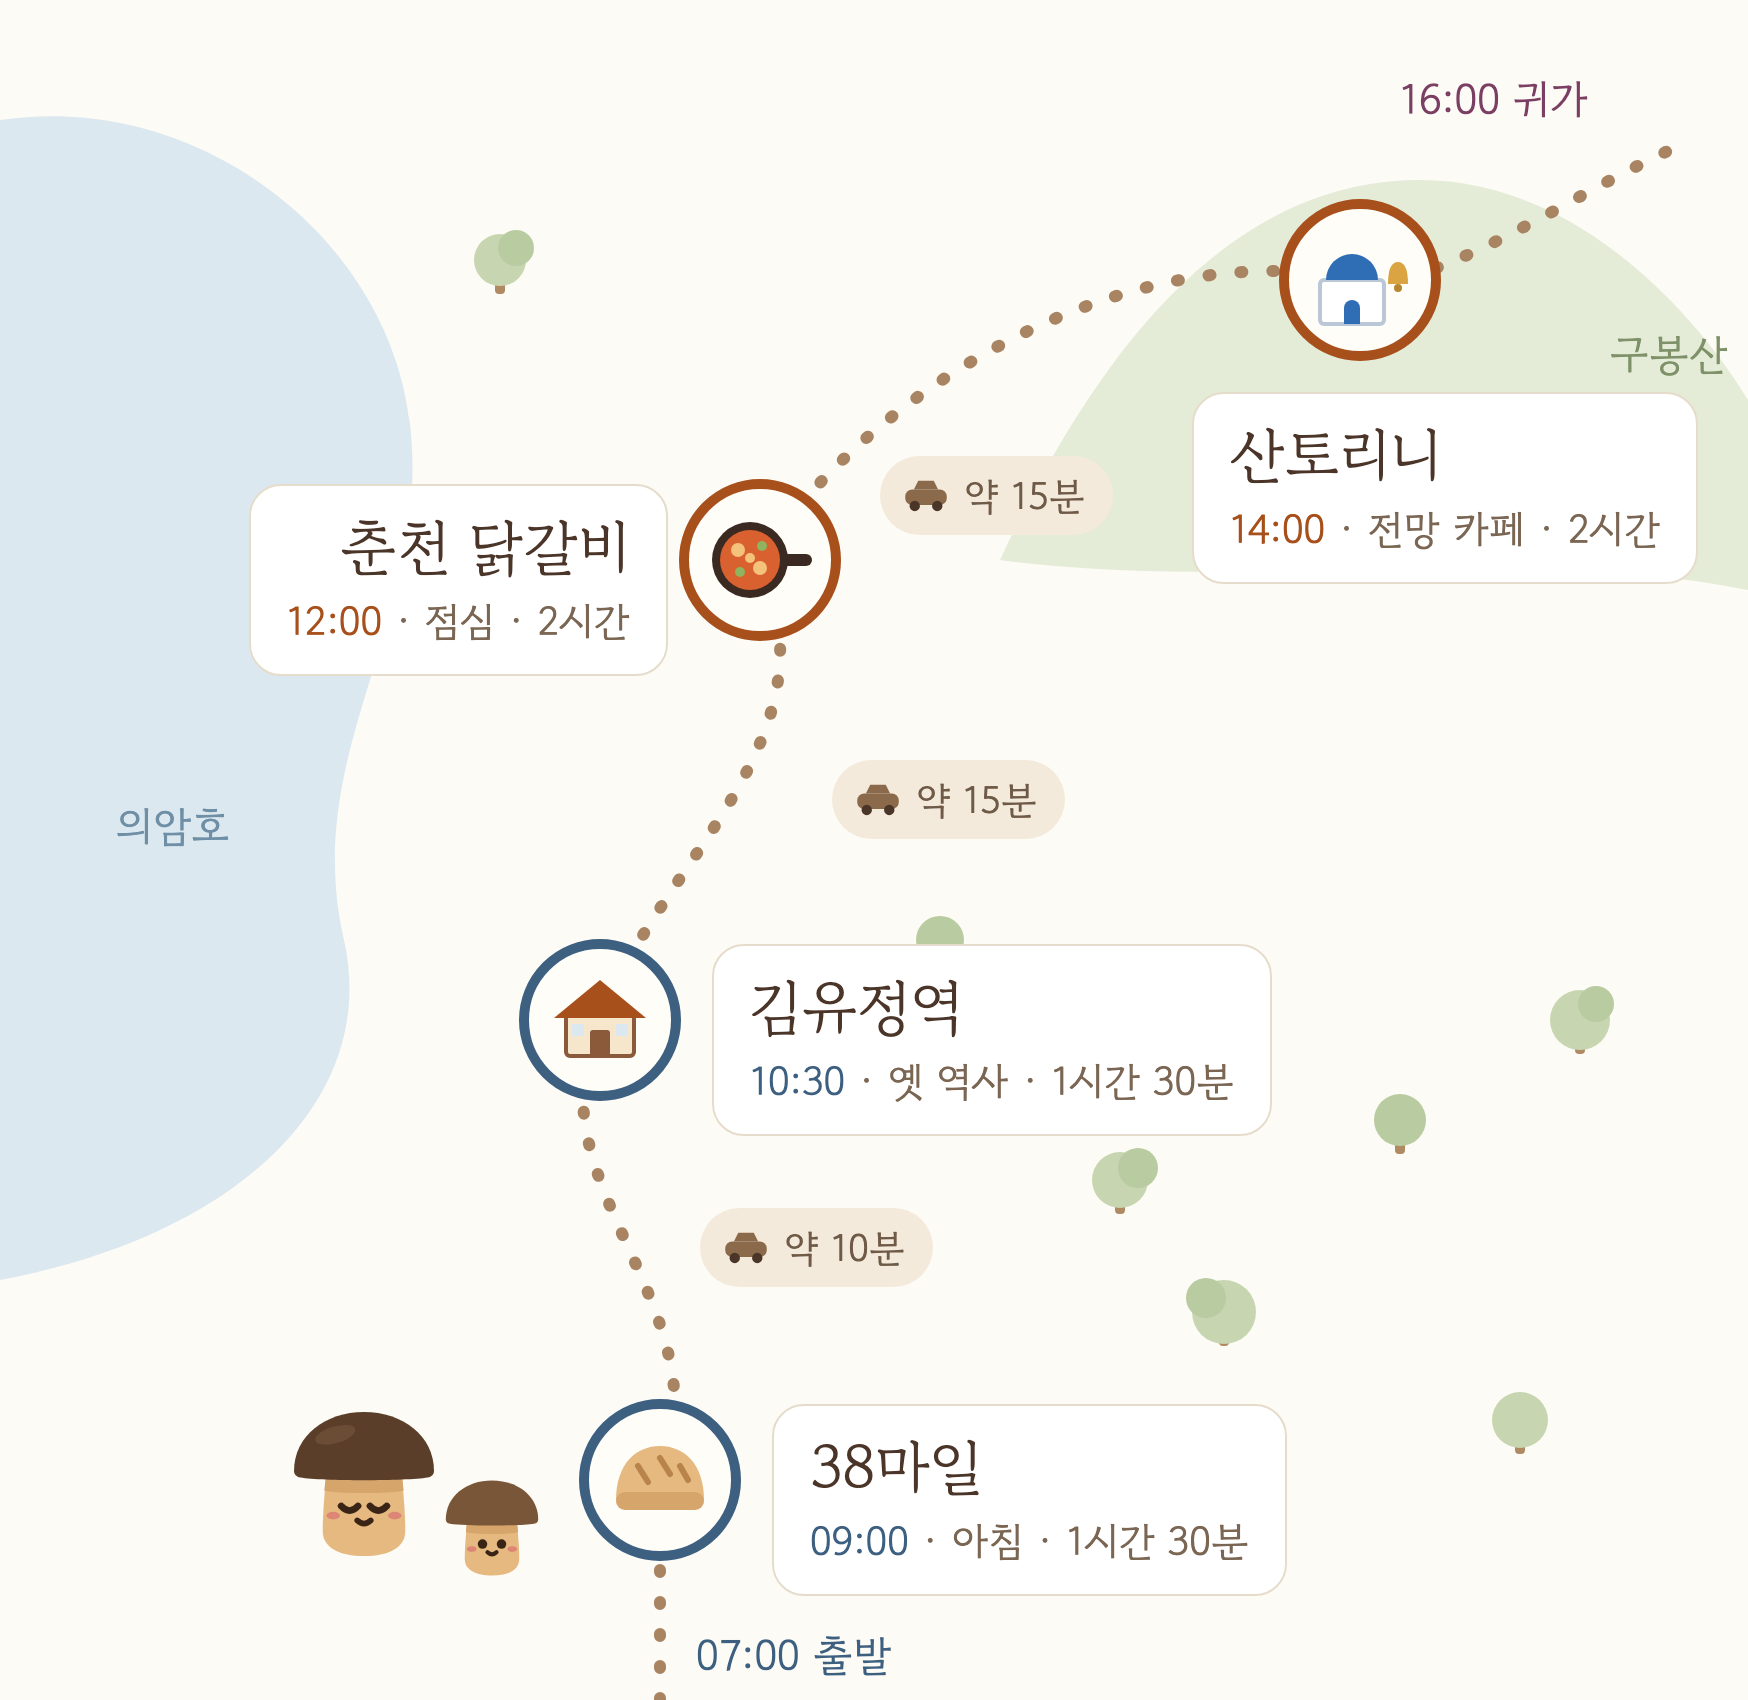
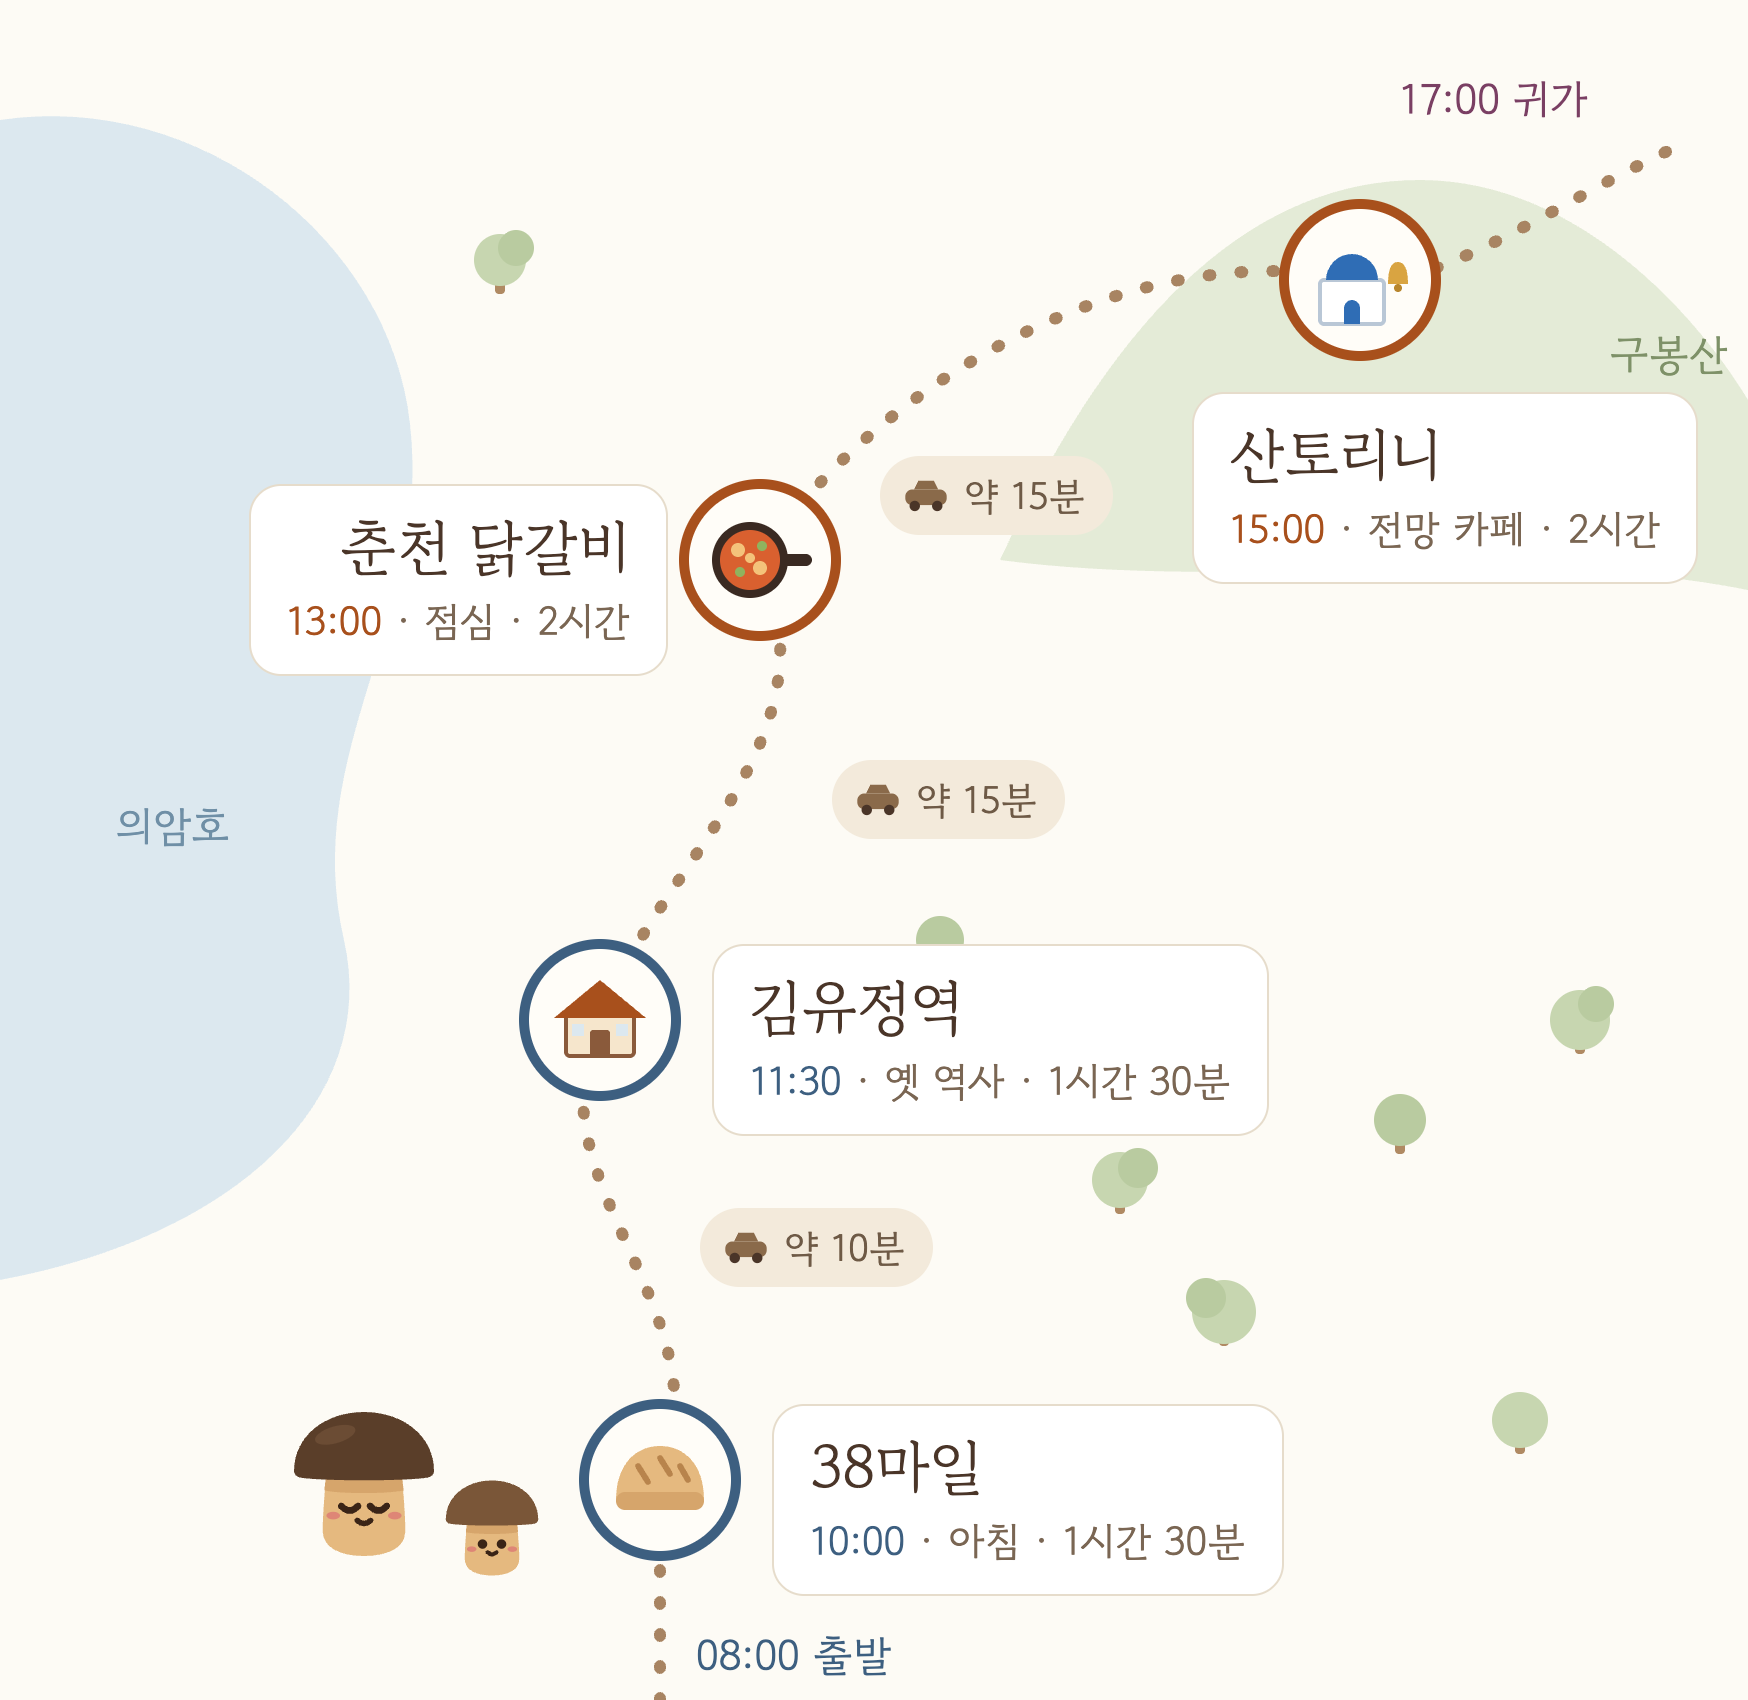
일정 1시간씩 미룸 (08:00 출발 · 17:00 귀가)

diff --git a/index.html b/index.html
@@ -151,16 +151,16 @@ footer { padding-top: 20px; border-top: 1px solid var(--line); text-align: cente
     <ol class="timeline">
 
       <li class="row minor dawn">
-        <span class="time">07:00</span>
+        <span class="time">08:00</span>
         <span class="dot"></span>
         <div>
           <div class="what-main">집합 · 출발</div>
-          <p class="what">06:50까지 와주세요</p>
+          <p class="what">07:50까지 와주세요</p>
         </div>
       </li>
 
       <li class="row stop dawn">
-        <span class="time">09:00</span>
+        <span class="time">10:00</span>
         <span class="dot"></span>
         <div>
           <div class="head">
@@ -178,7 +178,7 @@ footer { padding-top: 20px; border-top: 1px solid var(--line); text-align: cente
       </li>
 
       <li class="row stop dawn">
-        <span class="time">10:30</span>
+        <span class="time">11:30</span>
         <span class="dot"></span>
         <div>
           <div class="head">
@@ -199,7 +199,7 @@ footer { padding-top: 20px; border-top: 1px solid var(--line); text-align: cente
       </li>
 
       <li class="row stop noon">
-        <span class="time">12:00</span>
+        <span class="time">13:00</span>
         <span class="dot"></span>
         <div>
           <div class="head">
@@ -220,7 +220,7 @@ footer { padding-top: 20px; border-top: 1px solid var(--line); text-align: cente
       </li>
 
       <li class="row stop noon">
-        <span class="time">14:00</span>
+        <span class="time">15:00</span>
         <span class="dot"></span>
         <div>
           <div class="head">
@@ -233,17 +233,17 @@ footer { padding-top: 20px; border-top: 1px solid var(--line); text-align: cente
       </li>
 
       <li class="row minor dusk">
-        <span class="time">16:00</span>
+        <span class="time">17:00</span>
         <span class="dot"></span>
         <div><div class="what-main">귀가 출발</div></div>
       </li>
 
       <li class="row minor dusk">
-        <span class="time">18:00</span>
+        <span class="time">19:00</span>
         <span class="dot"></span>
         <div>
           <div class="what-main">도착</div>
-          <p class="what">막히면 18:30</p>
+          <p class="what">막히면 19:30</p>
         </div>
       </li>
 
